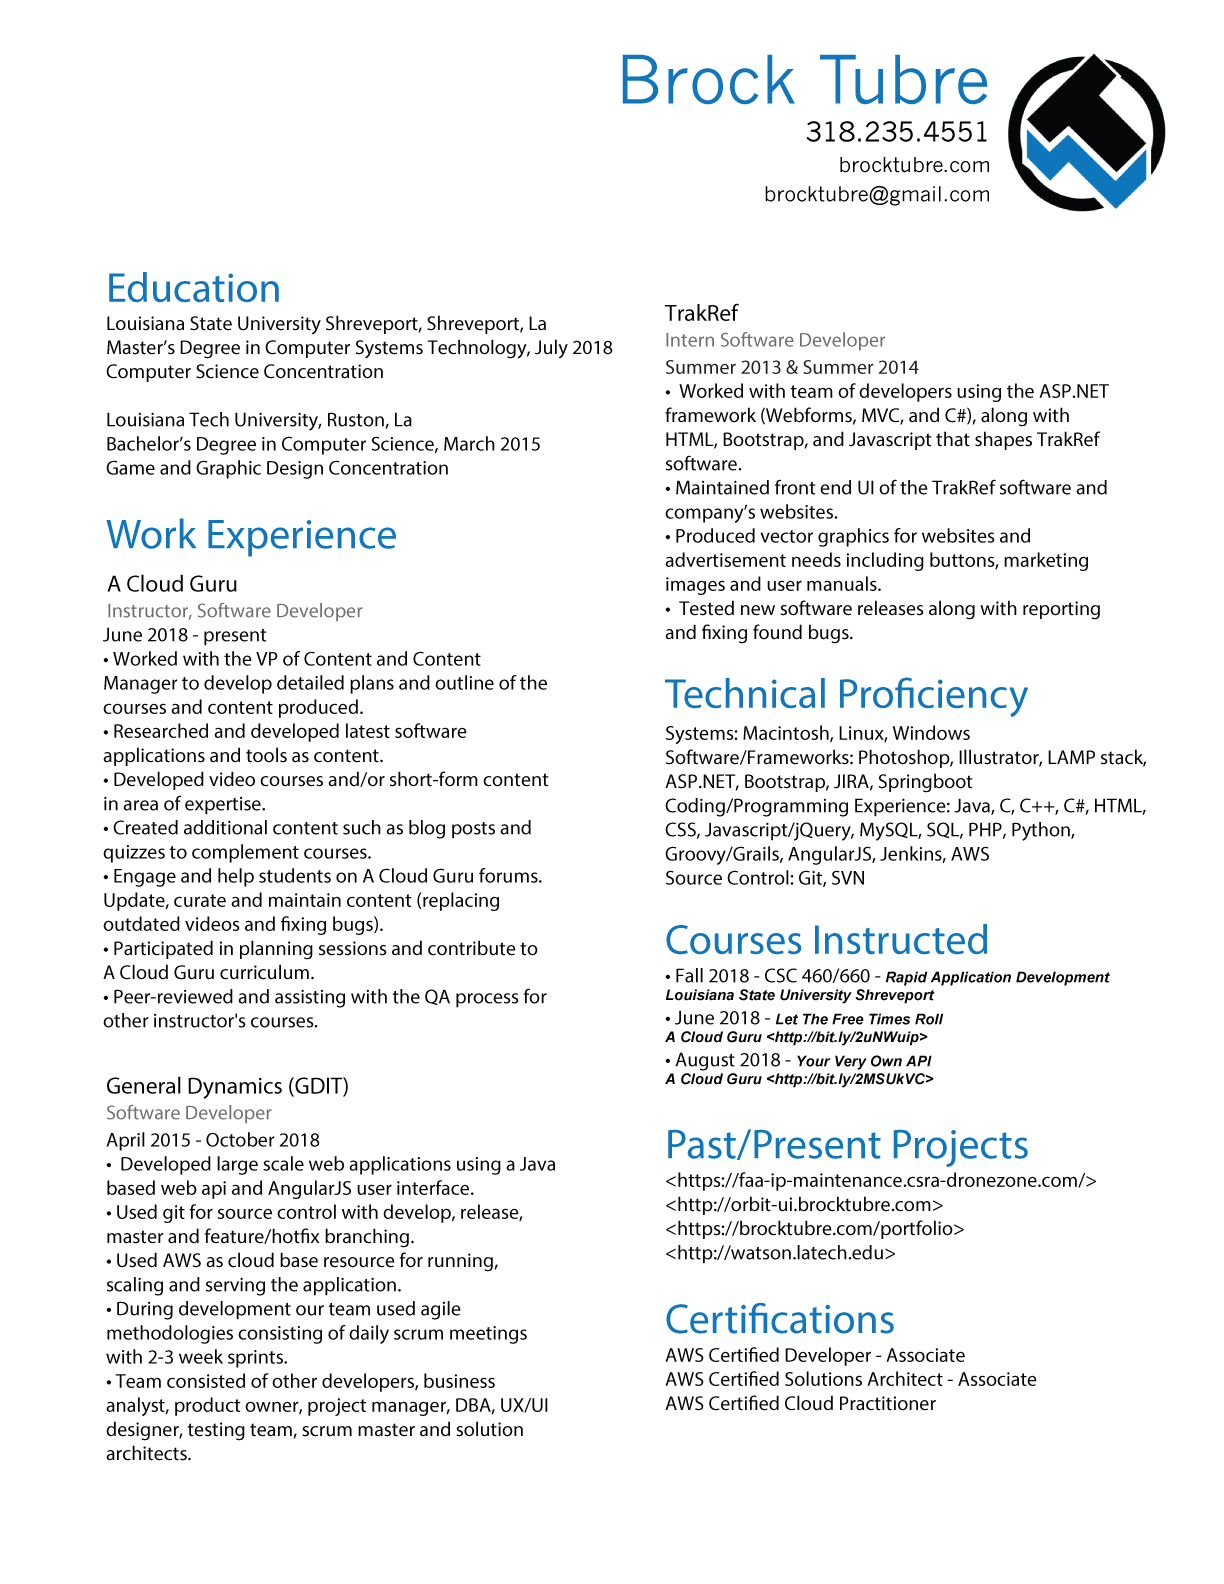
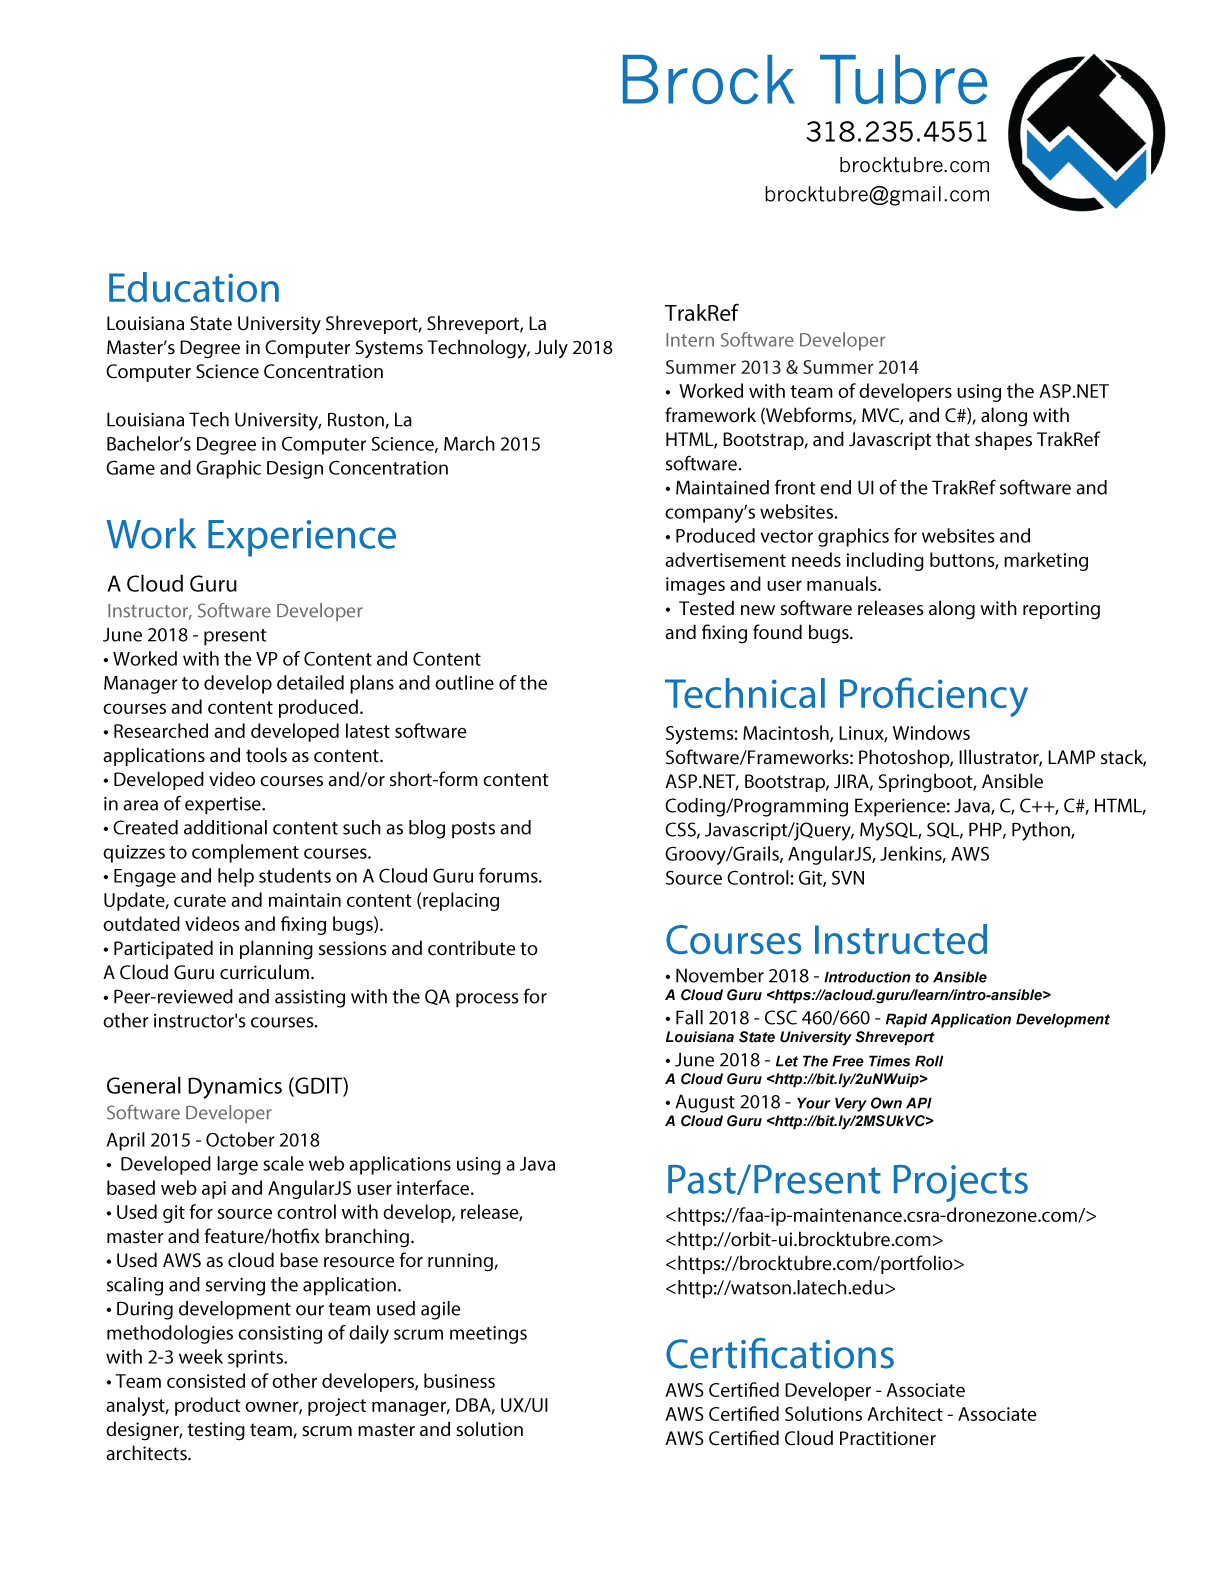
Added intro to Ansible course

Changed region(s): [[0.5278, 0.5878, 0.9003, 0.928]]

diff --git a/src/app/portfolio/portfolio.component.html b/src/app/portfolio/portfolio.component.html
@@ -15,6 +15,18 @@
           <div class="col-md-6 col-sm-6 col-xs-12">
               <div class="well">
                 <div class="card-body">
+                    <a class="thumbnail fancybox" rel="ligthbox" href="https://acloud.guru/learn/intro-ansible">
+                      <img class="img-responsive" alt="" src="assets/img/brock1.png" />
+                    </a>
+                  <h5 class="card-title"><i class="fa fa-code" style="padding-left: 0;"></i> Introduction To Ansible </h5>
+                  <p class="card-text"> Instructional video created for <a href="https://acloud.guru">A Cloud Guru</a> where you'll learn how to get started with Ansible, one of the most popular configuration management tools out there. If you’re passionate about DevOps, Ansible is a great tool to get started with. </p>
+                  <a href="https://acloud.guru/learn/intro-ansible" class="btn btn-warning">VIEW COURSE HERE <i class="fa fa-chevron-right"></i></a>
+                </div>
+              </div>
+            </div>
+            <div class="col-md-6 col-sm-6 col-xs-12">
+              <div class="well">
+                <div class="card-body">
                     <a class="thumbnail fancybox" rel="ligthbox" href="http://bit.ly/2MSUrR2">
                       <img class="img-responsive" alt="" src="assets/img/makerlab-yvoapi.jpg" />
                     </a>
@@ -24,6 +36,8 @@
                 </div>
               </div>
             </div>
+          </div>
+          <div class="row">
             <div class="col-md-6 col-sm-6 col-xs-12">
               <div class="well">
                 <div class="card-body">
@@ -36,8 +50,6 @@
                 </div>
               </div>
             </div>
-          </div>
-          <div class="row">
             <div class="col-md-6 col-sm-6 col-xs-12">
               <div class="well">
                 <div class="card-body">
@@ -50,23 +62,23 @@
                 </div>
               </div>
             </div>
-            <div class="col-md-6 col-sm-6 col-xs-12">
-                <div class="well">
-                  <div class="card-body">
-                    <a class="thumbnail fancybox" rel="ligthbox" href="assets/img/s3-sandbox-integration.jpg">
-                      <img class="img-responsive" alt="" src="assets/img/s3-sandbox-integration.png" />
-                      <div class='text-right'>
-                          <small class='text-muted'>S3 Store Architecture Diagram</small>
-                      </div> <!-- text-right / end -->
-                    </a>
-                    <h5 class="card-title"><i class="fa fa-hdd-o" style="padding-left: 0;"></i> S3 Store</h5>
-                    <p class="card-text">This is a simple interface to use for uploading objects. It uses AWS services like S3, DynamoDB, & Lambda to read, write, download, & delete objects.</p>
-                    <a href="/s3-sandbox" class="btn btn-warning">TRY IT NOW <i class="fa fa-chevron-right"></i></a>
-                  </div>
-                </div>
-              </div>
       </div>
       <div class="row" style="padding-bottom: 200px;">
+        <div class="col-md-6 col-sm-6 col-xs-12">
+            <div class="well">
+              <div class="card-body">
+                <a class="thumbnail fancybox" rel="ligthbox" href="assets/img/s3-sandbox-integration.jpg">
+                  <img class="img-responsive" alt="" src="assets/img/s3-sandbox-integration.png" />
+                  <div class='text-right'>
+                      <small class='text-muted'>S3 Store Architecture Diagram</small>
+                  </div> <!-- text-right / end -->
+                </a>
+                <h5 class="card-title"><i class="fa fa-hdd-o" style="padding-left: 0;"></i> S3 Store</h5>
+                <p class="card-text">This is a simple interface to use for uploading objects. It uses AWS services like S3, DynamoDB, & Lambda to read, write, download, & delete objects.</p>
+                <a href="/s3-sandbox" class="btn btn-warning">TRY IT NOW <i class="fa fa-chevron-right"></i></a>
+              </div>
+            </div>
+        </div>
           <div class="col-md-6 col-sm-6 col-xs-12">
             <div class="well">
               <div class="card-body">
